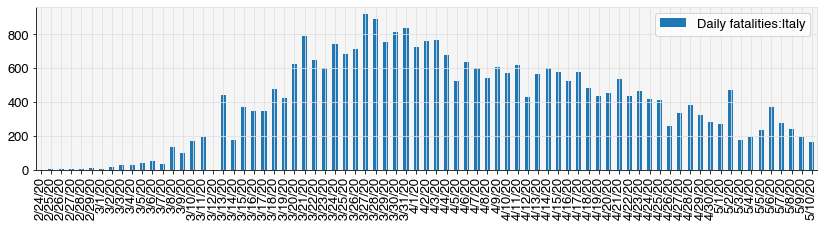
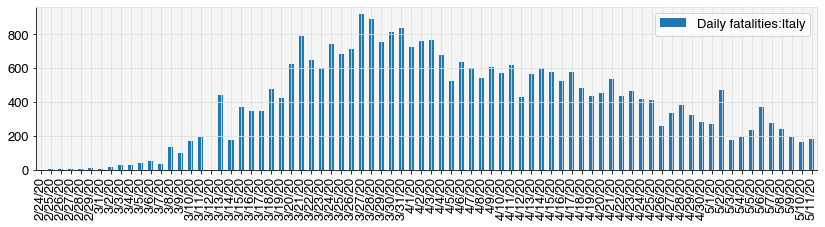
weekly crontab backup

Changed region(s): [[0.0606, 0.0617, 1.0, 0.9868], [0.9697, 0.6167, 1.0, 0.6476]]

diff --git a/01 - Daily_Report_Spain.md b/01 - Daily_Report_Spain.md
@@ -20,14 +20,14 @@ from ne_epidemic.utilities import sir_prediction_from_country
 sir_prediction_from_country('Spain')
 ```
 
-    Today's date: 2020-05-11 
+    Today's date: 2020-05-12 
     
     Country:  Spain
     - UCI database:  https://raw.githubusercontent.com/datadista/datasets/master/COVID%2019/ccaa_camas_uci_2017.csv
     - Total UCI beds:  4404
     - Fatalities database:  https://raw.githubusercontent.com/CSSEGISandData/COVID-19/master/csse_covid_19_data/csse_covid_19_time_series/time_series_covid19_deaths_global.csv
     - First day with more than 5 casualties (m/d/y):  3 / 7 / 2020
-    - Days since first fatalities:  65
+    - Days since first fatalities:  66
 
 
 
@@ -38,8 +38,8 @@ sir_prediction_from_country('Spain')
 ![png](01%20-%20Daily_Report_Spain_files/01%20-%20Daily_Report_Spain_2_2.png)
 
 
-    - Last day with data: 5/10/20
-    - Spain fatalities to date: 26621
+    - Last day with data: 5/11/20
+    - Spain fatalities to date: 26744
      
     
     Model Initial parameters:
@@ -52,19 +52,19 @@ sir_prediction_from_country('Spain')
     day since start simulation: 37  => beta reduction factor: 0.48
     
     Fitting parameters N0 and beta
-    Initial loss: 133882
+    Initial loss: 135654
     Optimization terminated successfully.
-             Current function value: 1876.621110
-             Iterations: 72
-             Function evaluations: 139
+             Current function value: 1934.200454
+             Iterations: 75
+             Function evaluations: 143
     Estimated parameters:
-    N0: 47851
+    N0: 47425
     beta0 (contacts per day): 0.4
-    R0: 2.01
+    R0: 2.02
     
-    Final loss: 1876
-    Initial/Final % loss: 1.4
-    Normalized Loss (per million persons, per day) 0.619 
+    Final loss: 1934
+    Initial/Final % loss: 1.43
+    Normalized Loss (per million persons, per day) 0.628 
     
     
     _____________________________________________________________________
@@ -73,8 +73,8 @@ sir_prediction_from_country('Spain')
     
     Model name: optimized 2 pars
     
-    Simulated days: 125.0
-    Initially infected/Total population (N0/N): 47851/46660000 (102.6 per 100,000)
+    Simulated days: 126.0
+    Initially infected/Total population (N0/N): 47425/46660000 (101.6 per 100,000)
     beta (per day): 0.4 , nu (per day): 0.2
     1/beta (days): 2.5 , 1/nu (days): 5.0
     IFR: 0.002
@@ -89,18 +89,18 @@ sir_prediction_from_country('Spain')
     
     _____________________________________________________________________
     
-    MODEL'S OUTPUTS FOR TODAY: 2020-05-11
-       Infected: 289015 (0.6%)
-       Recovered: 13129444 (28.1%)
-       Exposed to date: 13418459 (28.8%)
-       In ICU: 809
-       Fatalities: 26258
+    MODEL'S OUTPUTS FOR TODAY: 2020-05-12
+       Infected: 272811 (0.6%)
+       Recovered: 13202159 (28.3%)
+       Exposed to date: 13474970 (28.9%)
+       In ICU: 763
+       Fatalities: 26404
      
-    MEDIUM TERM FORECAST (125 days from model start date): 
+    MEDIUM TERM FORECAST (126 days from model start date): 
        Percent of population exposed at end simulation: 30%
-       Peak ICU admissions:  6339  on day 2020-03-27
+       Peak ICU admissions:  6336  on day 2020-03-27
        (note model does not account for long ICU stays)
-       Total fatalities at end of simulation: 28027
+       Total fatalities at end of simulation: 28072
 
 
 
@@ -126,5 +126,5 @@ sir_prediction_from_country('Spain')
           The derivative of the quadratic is used to estimate doubling time and R(t).
     Rt estimated from doubling time using nu= 0.2
     
-    Run finished 2020-05-11 21:59:57.426949
+    Run finished 2020-05-12 21:59:44.788471
 

diff --git a/02 - Daily_Report_Italy.md b/02 - Daily_Report_Italy.md
@@ -20,12 +20,12 @@ from ne_epidemic.utilities import sir_prediction_from_country
 sir_prediction_from_country('Italy')
 ```
 
-    Today's date: 2020-05-11 
+    Today's date: 2020-05-12 
     
     Country:  Italy
     - Fatalities database:  https://raw.githubusercontent.com/CSSEGISandData/COVID-19/master/csse_covid_19_data/csse_covid_19_time_series/time_series_covid19_deaths_global.csv
     - First day with more than 5 casualties (m/d/y):  2 / 24 / 2020
-    - Days since first fatalities:  77
+    - Days since first fatalities:  78
 
 
 
@@ -36,8 +36,8 @@ sir_prediction_from_country('Italy')
 ![png](02%20-%20Daily_Report_Italy_files/02%20-%20Daily_Report_Italy_1_2.png)
 
 
-    - Last day with data: 5/10/20
-    - Italy fatalities to date: 30560
+    - Last day with data: 5/11/20
+    - Italy fatalities to date: 30739
      
     
     Model Initial parameters:
@@ -50,19 +50,19 @@ sir_prediction_from_country('Italy')
     day since start simulation: 27  => beta reduction factor: 0.61
     
     Fitting parameters N0 and beta
-    Initial loss: 440573
+    Initial loss: 444055
     Optimization terminated successfully.
-             Current function value: 1875.527116
-             Iterations: 80
-             Function evaluations: 148
+             Current function value: 1904.974051
+             Iterations: 76
+             Function evaluations: 145
     Estimated parameters:
-    N0: 42204
+    N0: 41995
     beta0 (contacts per day): 0.35
     R0: 1.77
     
-    Final loss: 1875
+    Final loss: 1904
     Initial/Final % loss: 0.43
-    Normalized Loss (per million persons, per day) 0.403 
+    Normalized Loss (per million persons, per day) 0.404 
     
     
     _____________________________________________________________________
@@ -71,8 +71,8 @@ sir_prediction_from_country('Italy')
     
     Model name: optimized 2 pars
     
-    Simulated days: 98.0
-    Initially infected/Total population (N0/N): 42204/60480000 (69.8 per 100,000)
+    Simulated days: 99.0
+    Initially infected/Total population (N0/N): 41995/60480000 (69.4 per 100,000)
     beta (per day): 0.4 , nu (per day): 0.2
     1/beta (days): 2.8 , 1/nu (days): 5.0
     IFR: 0.0016666666666666668
@@ -87,18 +87,18 @@ sir_prediction_from_country('Italy')
     
     _____________________________________________________________________
     
-    MODEL'S OUTPUTS FOR TODAY: 2020-05-11
-       Infected: 499977 (0.8%)
-       Recovered: 18236358 (30.2%)
-       Exposed to date: 18736335 (31.0%)
-       In ICU: 624
-       Fatalities: 30393
+    MODEL'S OUTPUTS FOR TODAY: 2020-05-12
+       Infected: 476661 (0.8%)
+       Recovered: 18347604 (30.3%)
+       Exposed to date: 18824265 (31.1%)
+       In ICU: 595
+       Fatalities: 30579
      
-    MEDIUM TERM FORECAST (98 days from model start date): 
+    MEDIUM TERM FORECAST (99 days from model start date): 
        Percent of population exposed at end simulation: 32%
        Peak ICU admissions:  2852  on day 2020-03-27
        (note model does not account for long ICU stays)
-       Total fatalities at end of simulation: 32530
+       Total fatalities at end of simulation: 32613
 
 
 
@@ -124,7 +124,7 @@ sir_prediction_from_country('Italy')
           The derivative of the quadratic is used to estimate doubling time and R(t).
     Rt estimated from doubling time using nu= 0.2
     
-    Run finished 2020-05-11 22:00:27.534116
+    Run finished 2020-05-12 22:00:11.463477
 
 
 

diff --git a/00 - Data_Overview.md b/00 - Data_Overview.md
@@ -24,7 +24,7 @@ _ = get_doubling_time(df, nu=1/5, ndays=7)
 
     - Fatalities database:  https://raw.githubusercontent.com/CSSEGISandData/COVID-19/master/csse_covid_19_data/csse_covid_19_time_series/time_series_covid19_deaths_global.csv
     - First day with more than 5 casualties (m/d/y):  3 / 7 / 2020
-    - Days since first fatalities:  65
+    - Days since first fatalities:  66
 
 
 
@@ -35,8 +35,8 @@ _ = get_doubling_time(df, nu=1/5, ndays=7)
 ![png](00%20-%20Data_Overview_files/00%20-%20Data_Overview_3_2.png)
 
 
-    - Last day with data: 5/10/20
-    - Spain fatalities to date: 26621
+    - Last day with data: 5/11/20
+    - Spain fatalities to date: 26744
      
 
 
@@ -59,7 +59,7 @@ _ = get_doubling_time(df, nu=1/5, ndays=7)
 
     - Fatalities database:  https://raw.githubusercontent.com/CSSEGISandData/COVID-19/master/csse_covid_19_data/csse_covid_19_time_series/time_series_covid19_deaths_global.csv
     - First day with more than 5 casualties (m/d/y):  2 / 24 / 2020
-    - Days since first fatalities:  77
+    - Days since first fatalities:  78
 
 
 
@@ -70,8 +70,8 @@ _ = get_doubling_time(df, nu=1/5, ndays=7)
 ![png](00%20-%20Data_Overview_files/00%20-%20Data_Overview_5_2.png)
 
 
-    - Last day with data: 5/10/20
-    - Italy fatalities to date: 30560
+    - Last day with data: 5/11/20
+    - Italy fatalities to date: 30739
      
 
 
@@ -94,7 +94,7 @@ _ = get_doubling_time(df, nu=1/5, ndays=7)
 
     - Fatalities database:  https://raw.githubusercontent.com/CSSEGISandData/COVID-19/master/csse_covid_19_data/csse_covid_19_time_series/time_series_covid19_deaths_global.csv
     - First day with more than 5 casualties (m/d/y):  3 / 20 / 2020
-    - Days since first fatalities:  52
+    - Days since first fatalities:  53
 
 
 
@@ -105,8 +105,8 @@ _ = get_doubling_time(df, nu=1/5, ndays=7)
 ![png](00%20-%20Data_Overview_files/00%20-%20Data_Overview_7_2.png)
 
 
-    - Last day with data: 5/10/20
-    - Portugal fatalities to date: 1135
+    - Last day with data: 5/11/20
+    - Portugal fatalities to date: 1144
      
 
 
@@ -129,7 +129,7 @@ _ = get_doubling_time(df, nu=1/5, ndays=7)
 
     - Fatalities database:  https://raw.githubusercontent.com/CSSEGISandData/COVID-19/master/csse_covid_19_data/csse_covid_19_time_series/time_series_covid19_deaths_global.csv
     - First day with more than 5 casualties (m/d/y):  3 / 5 / 2020
-    - Days since first fatalities:  67
+    - Days since first fatalities:  68
 
 
 
@@ -140,8 +140,8 @@ _ = get_doubling_time(df, nu=1/5, ndays=7)
 ![png](00%20-%20Data_Overview_files/00%20-%20Data_Overview_9_2.png)
 
 
-    - Last day with data: 5/10/20
-    - France fatalities to date: 26341
+    - Last day with data: 5/11/20
+    - France fatalities to date: 26604
      
 
 
@@ -164,7 +164,7 @@ _ = get_doubling_time(df, nu=1/5, ndays=7)
 
     - Fatalities database:  https://raw.githubusercontent.com/CSSEGISandData/COVID-19/master/csse_covid_19_data/csse_covid_19_time_series/time_series_covid19_deaths_global.csv
     - First day with more than 5 casualties (m/d/y):  3 / 2 / 2020
-    - Days since first fatalities:  70
+    - Days since first fatalities:  71
 
 
 
@@ -175,8 +175,8 @@ _ = get_doubling_time(df, nu=1/5, ndays=7)
 ![png](00%20-%20Data_Overview_files/00%20-%20Data_Overview_11_2.png)
 
 
-    - Last day with data: 5/10/20
-    - US fatalities to date: 79526
+    - Last day with data: 5/11/20
+    - US fatalities to date: 80682
      
 
 
